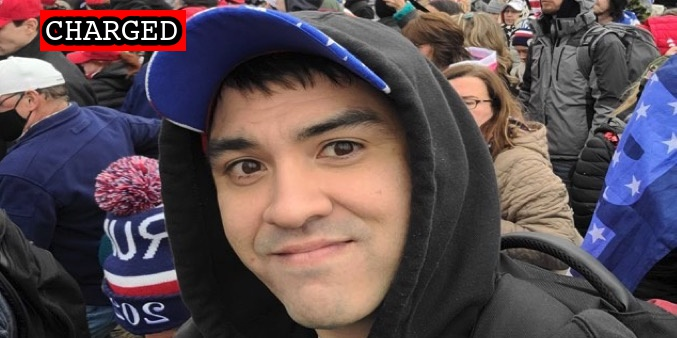
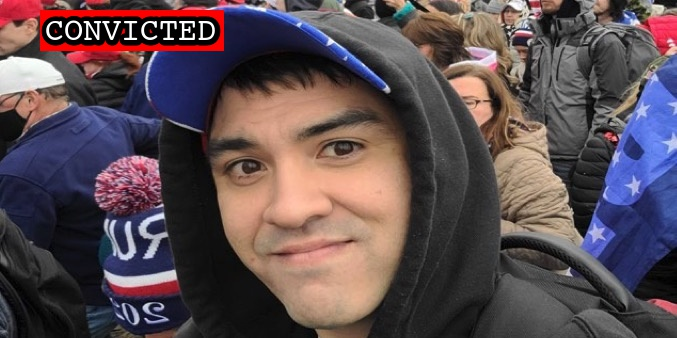
Latest convictions

Changed region(s): [[0.0931, 0.0296, 0.3412, 0.1775]]

diff --git a/docs/_suspects/matthew-beddingfield.md b/docs/_suspects/matthew-beddingfield.md
@@ -4,11 +4,11 @@ lastName: Beddingfield
 hashtag: SoggyKidInsider
 aka:
 residence: North Carolina
-status: Charged
+status: Convicted
 date: 2022-02-02
 charged: 2022-02-02
 indicted:
-convicted:
+convicted: 2023-02-16
 acquitted:
 sentenced:
 dismissed:
@@ -32,7 +32,7 @@ raid:
 perpwalk:
 quote:
 title: Matthew Beddingfield charged on February 2nd, 2022
-description: Click for latest case details. Suspects innocent until proven guilty.
+description: Convicted on February 16, 2023. Click for latest case details.
 author: seditiontrack
 layout: suspect
 published: true
@@ -41,8 +41,13 @@ caseName: USA v. BEDDINGFIELD
 judge: Carl J. Nichols
 videos:
 charges:
+  - code: 18 USC § 111(a)(1)
+    title: Assaulting, resisting, or impeding certain officers or employees
+    url: https://www.law.cornell.edu/uscode/text/18/111
+    felony: true
 sentence:
 ---
+
 - [News Report](https://www.nbcnews.com/politics/justice-department/fbi-arrests-trump-fan-stormed-capitol-bail-attempted-murder-rcna15169)
 - [Complaint](https://www.justice.gov/usao-dc/case-multi-defendant/file/1470311/download)
 - [Statement of Facts](https://www.justice.gov/usao-dc/case-multi-defendant/file/1470316/download)
@@ -51,3 +56,4 @@ sentence:
 - [DOJ Press Release](https://extremism.gwu.edu/sites/g/files/zaxdzs2191/f/Matthew%20Jason%20Beddingfield%20Government%20Motion%20For%20Emergency%20Stay%20and%20Revocation%20of%20Release%20Order.pdf)
 - [Government Motion for Emergency Appeal of Release Order](https://extremism.gwu.edu/sites/g/files/zaxdzs2191/f/Matthew%20Jason%20Beddingfield%20Government%20Motion%20For%20Emergency%20Stay%20and%20Revocation%20of%20Release%20Order.pdf)
 - [Defense Response to Motion for Revocation of Order of Release](https://extremism.gwu.edu/sites/g/files/zaxdzs2191/f/Matthew%20Jason%20Beddingfield%20Defense%20Response%20to%20Motion%20for%20Revocation%20of%20Release%20Order.pdf)
+- [Plea Agreement](https://storage.courtlistener.com/recap/gov.uscourts.dcd.240916/gov.uscourts.dcd.240916.39.0.pdf)

diff --git a/docs/_suspects/patrick-king.md b/docs/_suspects/patrick-king.md
@@ -4,11 +4,11 @@ lastName: King
 hashtag:
 aka:
 residence: Washington
-status: Charged
+status: Convicted
 date: 2022-03-15
 charged: 2022-03-15
 indicted:
-convicted:
+convicted: 2023-02-17
 acquitted:
 sentenced:
 dismissed:
@@ -17,7 +17,7 @@ plea_hearing: 2023-02-17
 trial_date:
 trial_type:
 jury_selection:
-sentencing:
+sentencing: 2023-05-09
 status_conference:
 age:
 occupation:
@@ -32,7 +32,7 @@ raid:
 perpwalk:
 quote: "Smoked weed n shit"
 title: Patrick King charged on March 15th, 2022
-description: Click for latest case details. Suspects innocent until proven guilty.
+description: Convicted on February 17, 2023. Click for latest case details.
 author: seditiontrack
 layout: suspect
 published: true
@@ -41,8 +41,13 @@ caseName: USA v. KING
 judge: Timothy J. Kelly
 videos:
 charges:
+  - code: 40 USC § 5104(e)(2)(G)
+    title: Parading, demonstrating or picketing in a Capitol building
+    url: https://www.law.cornell.edu/uscode/text/40/5104
+    felony: false
 sentence:
 ---
+
 - [News Report](https://www.msn.com/en-us/news/crime/fbi-uses-online-records-to-catch-mount-vernon-men-who-smoked-weed-during-capitol-riots/ar-AAVDP00)
 - [Complaint](https://www.justice.gov/usao-dc/case-multi-defendant/file/1488261/download)
 - [Statement of Facts](https://www.justice.gov/usao-dc/case-multi-defendant/file/1488266/download)

diff --git a/docs/_suspects/brian-jones.md b/docs/_suspects/brian-jones.md
@@ -4,11 +4,11 @@ lastName: Jones
 hashtag:
 aka:
 residence: Washington
-status: Charged
+status: Convicted
 date: 2022-03-15
 charged: 2022-03-15
 indicted:
-convicted:
+convicted: 2023-02-17
 acquitted:
 sentenced:
 dismissed:
@@ -17,7 +17,7 @@ plea_hearing: 2023-02-17
 trial_date:
 trial_type:
 jury_selection:
-sentencing:
+sentencing: 2023-05-09
 status_conference:
 age:
 occupation:
@@ -32,7 +32,7 @@ raid:
 perpwalk:
 quote:
 title: Brian Jones charged on March 15th, 2022
-description: Click for latest case details. Suspects innocent until proven guilty.
+description: Convicted on February 17, 2023. Click for latest case details.
 author: seditiontrack
 layout: suspect
 published: true
@@ -41,8 +41,13 @@ caseName: USA v. JONES
 judge: Timothy J. Kelly
 videos:
 charges:
+  - code: 40 USC § 5104(e)(2)(G)
+    title: Parading, demonstrating or picketing in a Capitol building
+    url: https://www.law.cornell.edu/uscode/text/40/5104
+    felony: false
 sentence:
 ---
+
 - [News Report](https://www.msn.com/en-us/news/crime/fbi-uses-online-records-to-catch-mount-vernon-men-who-smoked-weed-during-capitol-riots/ar-AAVDP00)
 - [Complaint](https://www.justice.gov/usao-dc/case-multi-defendant/file/1488271/download)
 - [Statement of Facts](https://www.justice.gov/usao-dc/case-multi-defendant/file/1488276/download)

diff --git a/docs/_suspects/damon-beckley.md b/docs/_suspects/damon-beckley.md
@@ -15,7 +15,7 @@ dismissed:
 deceased:
 plea_hearing:
 trial_date: 2022-12-12
-trial_type: Jury Trial
+trial_type: Stipulated Bench Trial
 jury_selection:
 sentencing:
 status_conference:
@@ -43,6 +43,7 @@ videos:
 charges:
 sentence:
 ---
+
 - [News Report](https://www.wdrb.com/news/fbi-arrests-man-from-louisville-who-entered-us-capitol-during-riot/article_9dff8ffc-5863-11eb-b21c-5b982889fe2a.html)
 - [Complaint](https://www.justice.gov/opa/file/1355856/download)
 - [Statement of Facts](https://www.justice.gov/opa/file/1355861/download)
